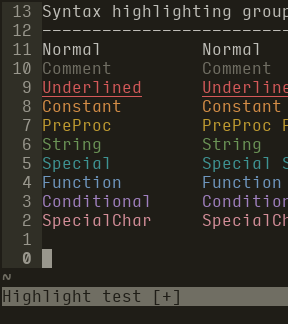
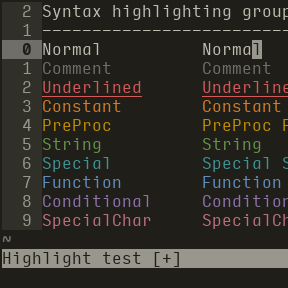
overhaul

Changed region(s): [[0.0, 0.0, 1.0, 0.9688]]

diff --git a/transmogrify.md b/transmogrify.md
@@ -19,16 +19,17 @@
 %s/f8f8f8/fffdf5/ |
 
 %s/ab4642/d45959/ |
-%s/dc9656/d48d46/ |
-%s/f7ca88/bf9b30/ |
-%s/a1b56c/6b9456/ |
+%s/dc9656/d47c24/ |
+%s/f7ca88/bf8f00/ |
+%s/a1b56c/63944a/ |
 %s/86c1b9/3e9494/ |
-%s/7cafc2/6f97bf/ |
-%s/ba8baf/a080bf/ |
-%s/a16946/d48e99/ |
+%s/7cafc2/608fbf/ |
+%s/ba8baf/8f72ab/ |
+%s/a16946/bf6f7c/ |
 
 %s/Character",    s:gui08, "", s:cterm08/Character",    s:gui05, "", s:cterm05/ |
 %s/Cursor",        s:gui00, s:gui05, s:cterm00, s:cterm05/Cursor",        s:gui00, s:gui04, s:cterm00, s:cterm04/ |
+%s/CursorLineNr",  s:gui04, s:gui01, s:cterm04, s:cterm01/CursorLineNr",  s:gui00, s:gui03, s:cterm00, s:cterm03/ |
 %s/Identifier",   s:gui08, "", s:cterm08, "", "none/Identifier",   s:gui05, "", s:cterm05, "", "bold/ |
 %s/LineNr",        s:gui03, s:gui01, s:cterm03/LineNr",        s:gui04, s:gui01, s:cterm04/ |
 %s/MatchParen",    "", s:gui03, "", s:cterm03/MatchParen",    s:gui00, s:gui03, s:cterm00, s:cterm03/ |
